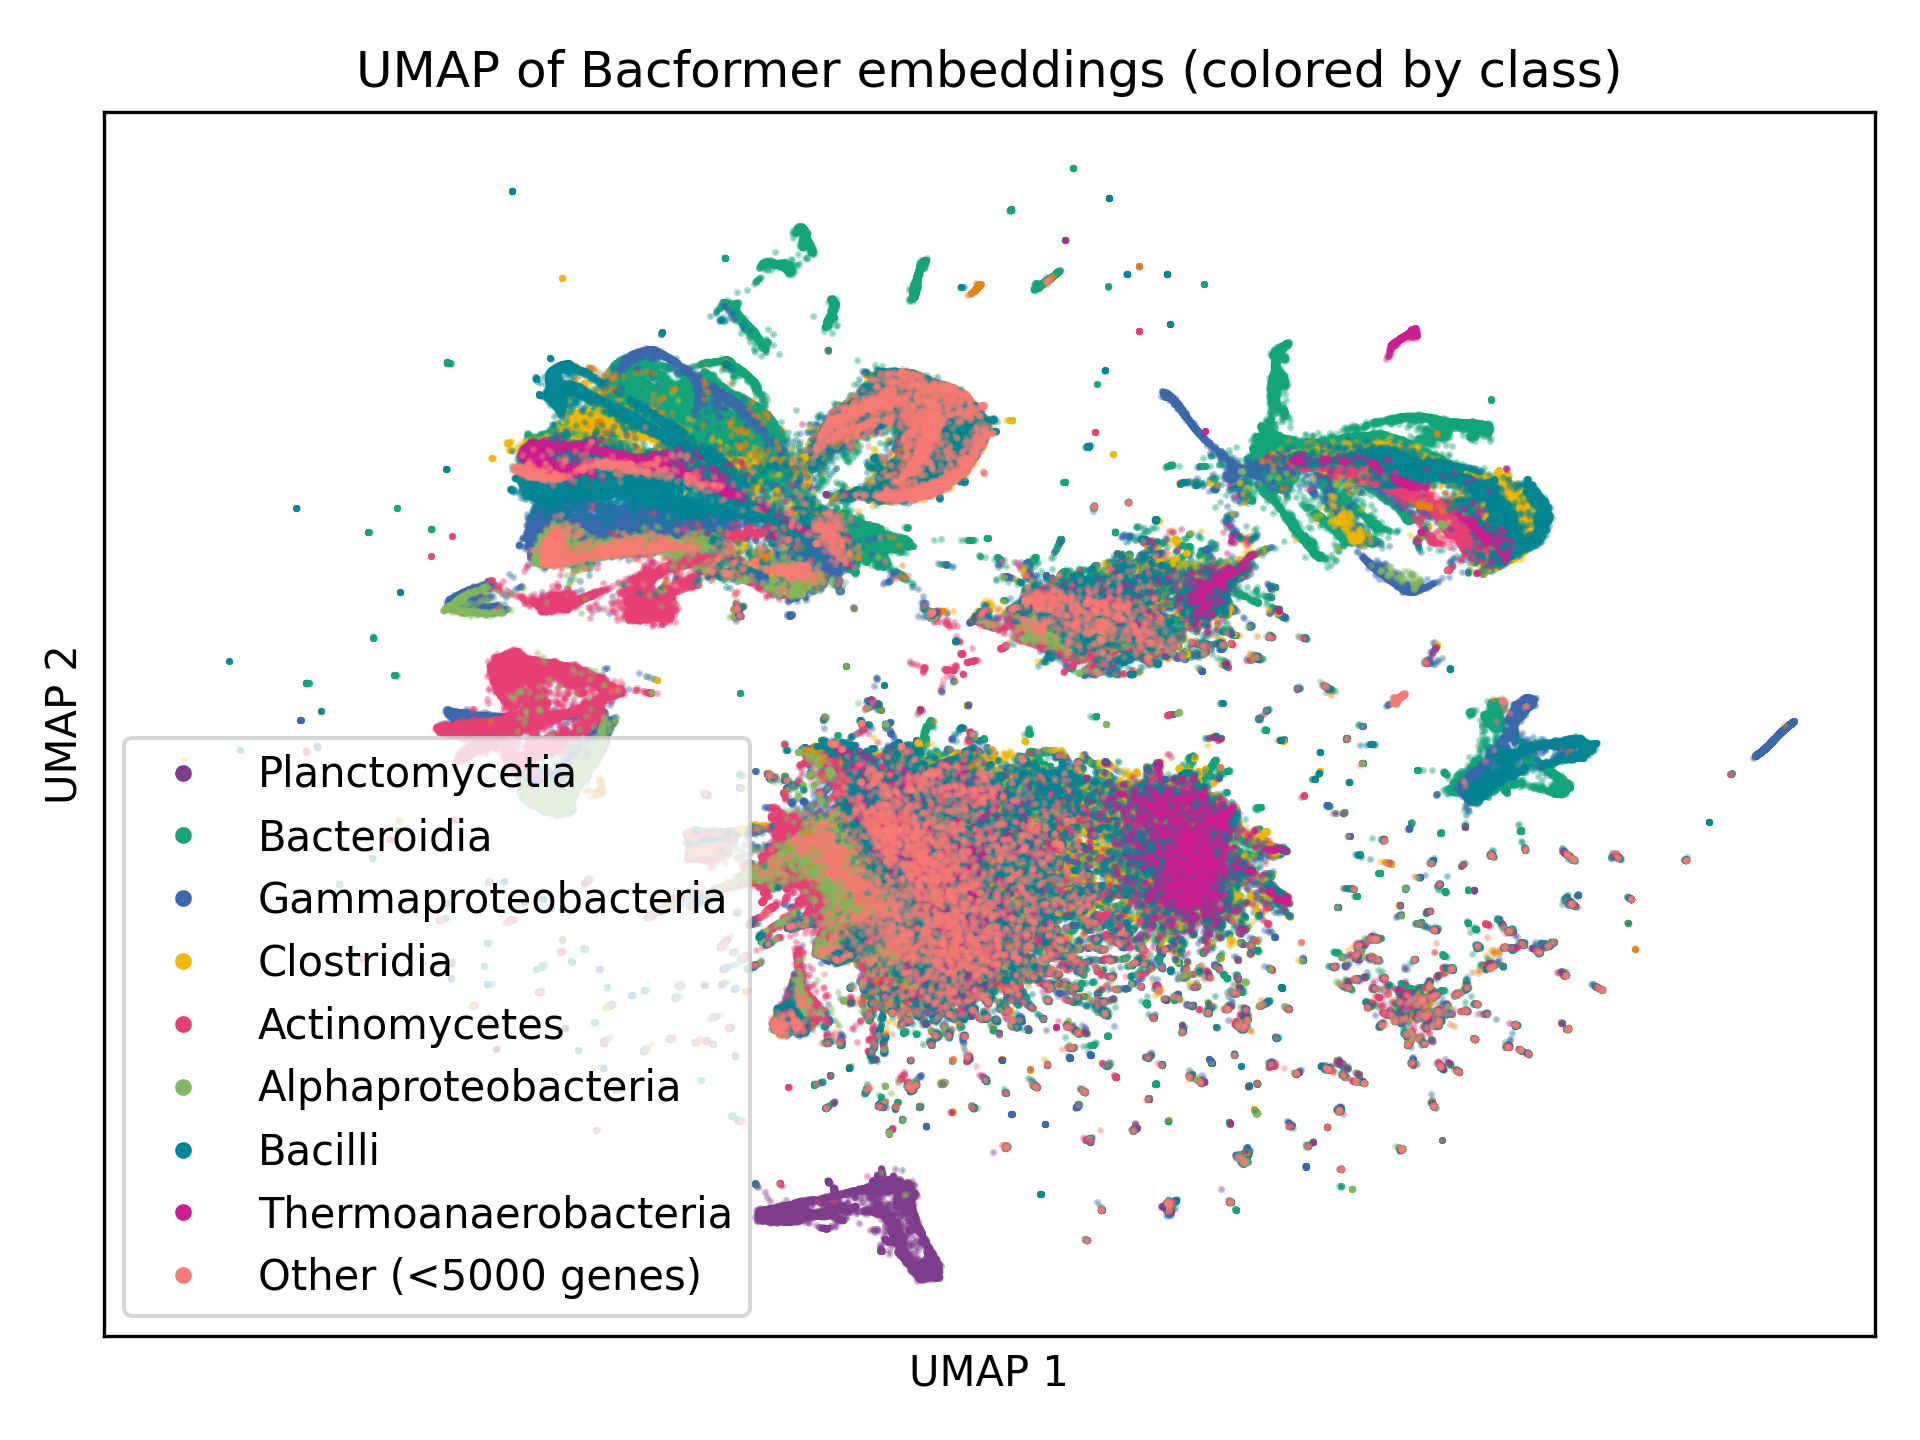
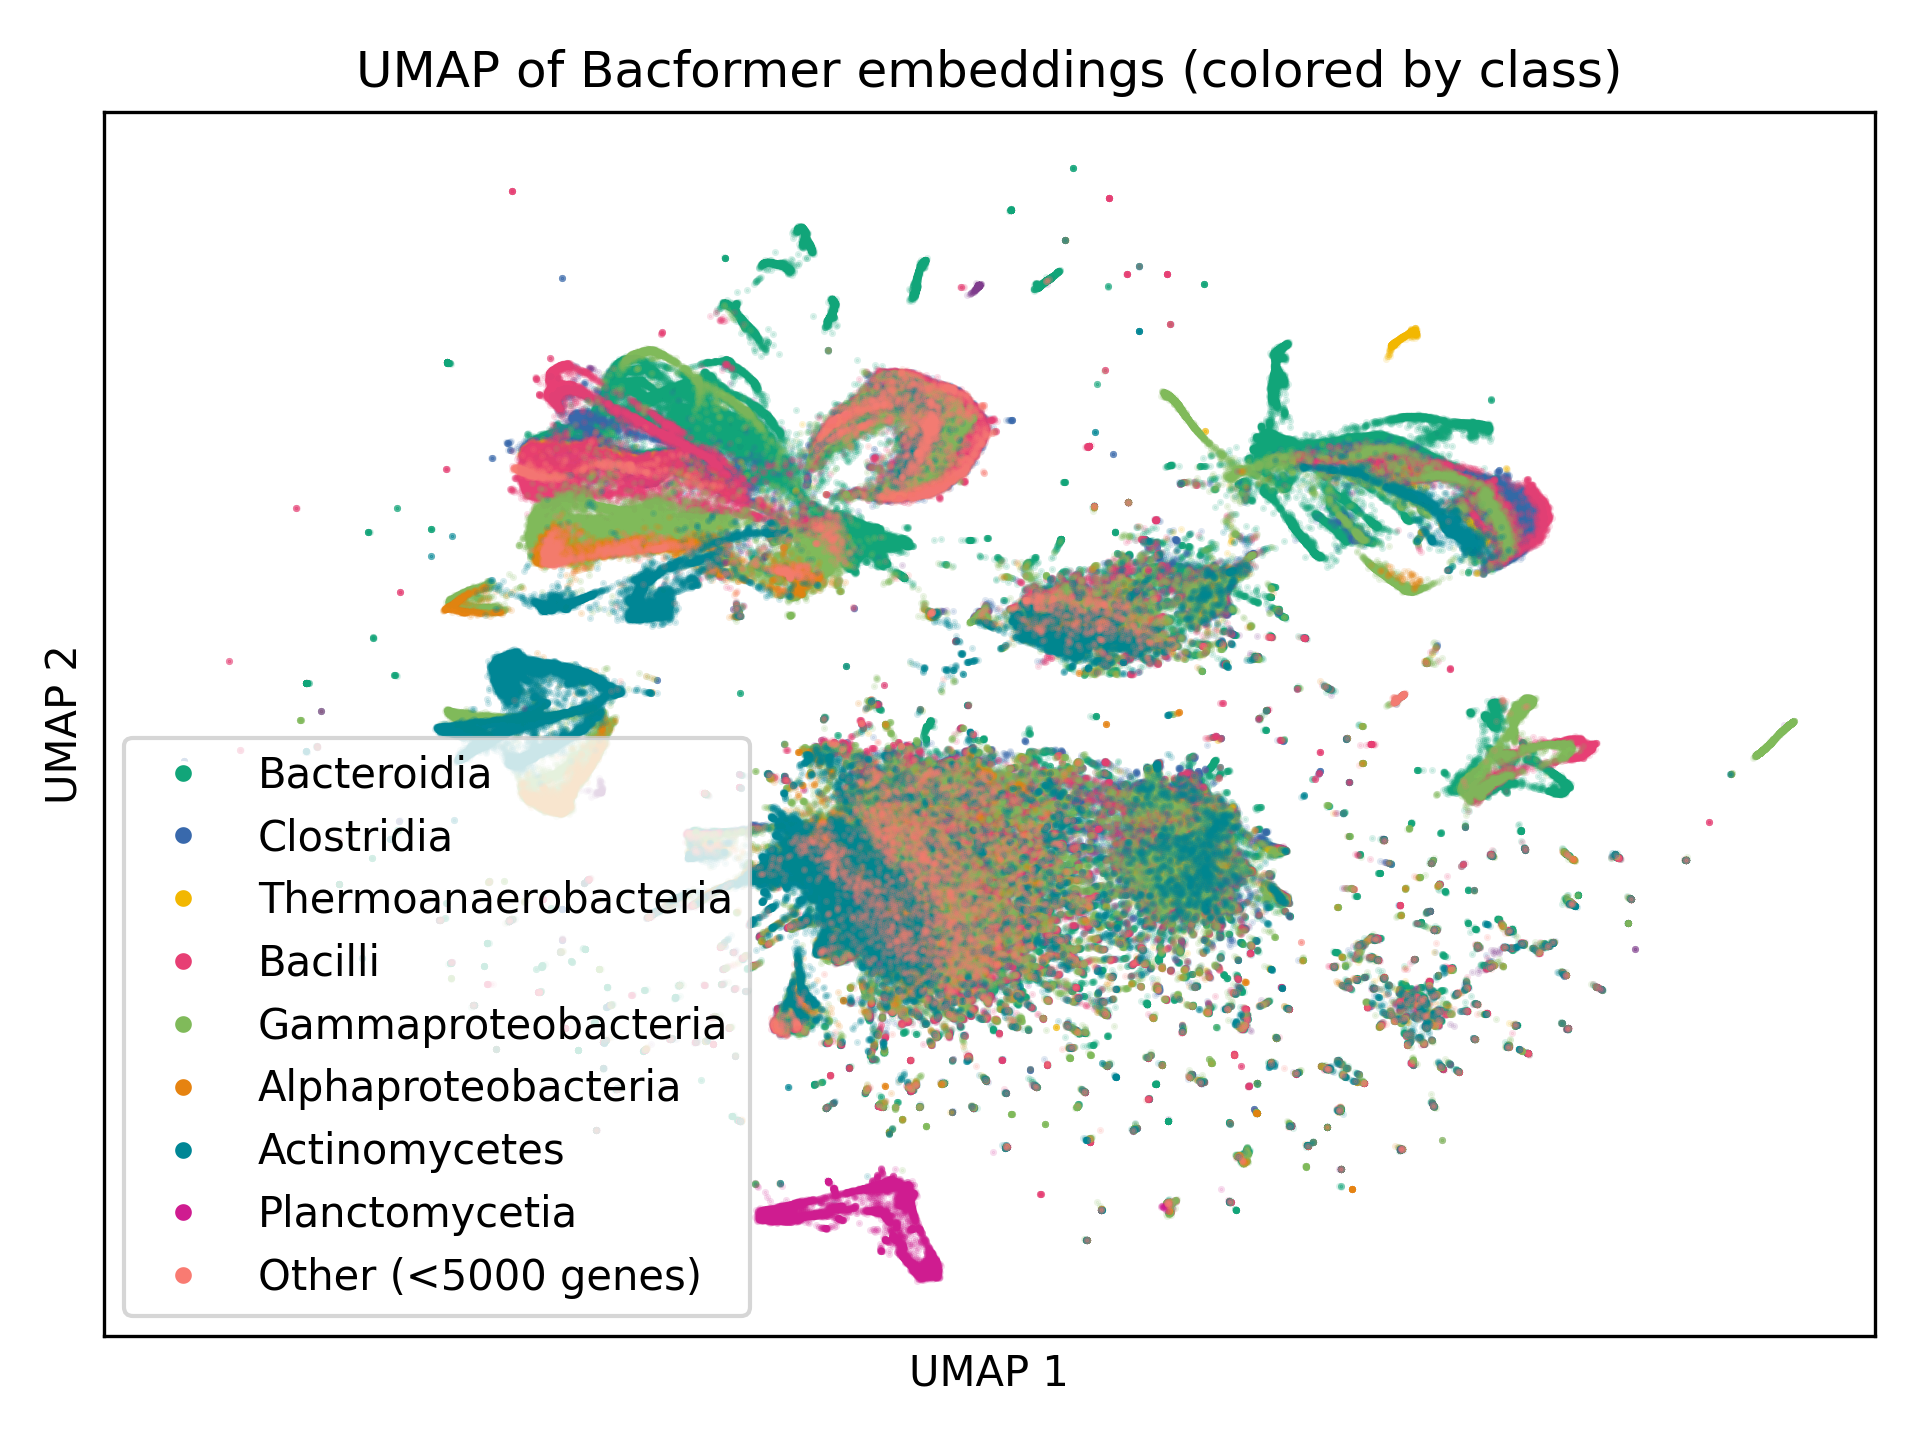
change umap label and plotting order

diff --git a/src/scripts/visualization/umap_embeddings.py b/src/scripts/visualization/umap_embeddings.py
@@ -85,7 +85,8 @@ def plot_embeddings_umap(
             )
 
             handles = []
-            for i, label in enumerate(reduced_embeddings[rank].unique().to_list()):
+            labels = reduced_embeddings.select(rank, "len").unique().sort(by="len", descending=True)[rank].unique(maintain_order=True).to_list()
+            for i, label in enumerate(labels):
                 c = colors.get(i, "#808889")
                 if label is None:
                     embedding_2d = reduced_embeddings.filter(polars.col(rank).is_null())
@@ -128,7 +129,7 @@ def plot_embeddings_umap(
         plt.yticks([])
         plt.title(f"UMAP projection of {model_name} embeddings")
         plt.tight_layout()
-        plt.savefig(save_path)
+        plt.savefig(save_path, dpi=300)
         plt.close()
 
 print("Running umap script...")
